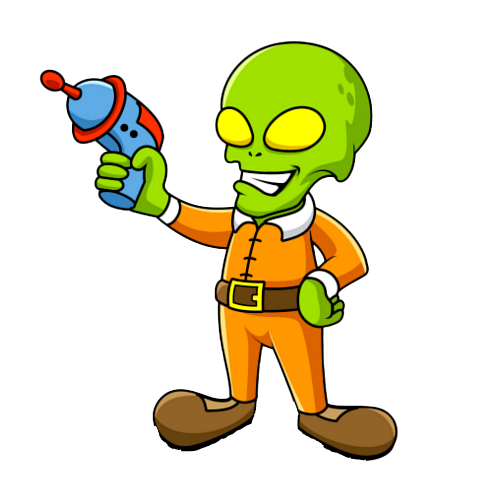
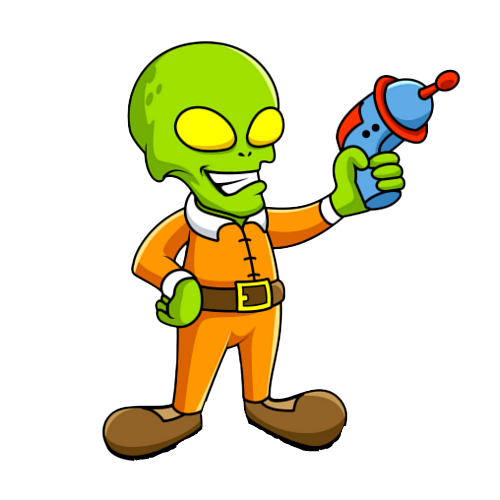
out of safety suggested by Andre, I commit the game one last time. Changed the background of the HTML file increased the font size of the score, title and time and from the instructions.This is my final commit.

diff --git a/index.html b/index.html
@@ -12,22 +12,24 @@
     <script src="https://cdn.jsdelivr.net/npm/p5@1.4.1/lib/p5.js"></script>
     <script src="https://cdn.jsdelivr.net/npm/p5/lib/addons/p5.sound.min.js"></script>
 
-    <title>Shoot A Mole Game</title>
+    <title>Whack a Diglett</title>
   </head>
   <body>
-    <section class="title">
-      <span id="score-span">Score:<span id="score"> 0</span></span>
-      <h1>Shoot a Mole</h1>
-      <span id="time-span">Time:<span id="span-timer">0</span></span>
-    </section>
+    <div class="background">
+      <section class="title">
+        <span id="score-span">Score:<span id="score"> 0</span></span>
+        <h1>Whack A Diglett</h1>
+        <span id="time-span">Time:<span id="span-timer">0</span></span>
+      </section>
 
-    <div id="canvas"></div>
-    <section class="instructions">
-      <h3>Instructions:</h3>
-      <p>Shooting = Spacebar</p>
-      <p>Move to right: hold <i class="fa-solid fa-arrow-right"></i> key</p>
-      <p>Move to left: hold <i class="fa-solid fa-arrow-left"></i>key</p>
-    </section>
+      <div id="canvas"></div>
+      <section class="instructions">
+        <h3>Instructions:</h3>
+        <p>Shooting = Spacebar</p>
+        <p>Move to right: hold <i class="fa-solid fa-arrow-right"></i> key</p>
+        <p>Move to left: hold <i class="fa-solid fa-arrow-left"></i>key</p>
+      </section>
+    </div>
 
     <!--Game scripts-->
     <script src="src/constants.js"></script>

diff --git a/src/game.js b/src/game.js
@@ -50,13 +50,13 @@ class Game {
     this.moleArray = [];
     this.bulletArray = [];
     this.score = 0;
+    this.highScore = 0;
   }
 
   //1. preload images etc
   preload() {
     this.gameBackground.preload();
     this.backgroundHole.preload();
-    // this.bulletImg = loadImage("assets/images/bullet.png");
     this.bulletImg = loadImage("assets/images/laser-bullet.png");
     this.moleImg = loadImage("assets/images/diglett_without_background.png");
     this.player.preload();
@@ -98,7 +98,6 @@ class Game {
     this.bulletArray.forEach((bullet) => {
       this.moleArray.forEach((mole) => {
         if (this.isColliding(bullet, mole)) {
-          // console.log("diglett is hit");
           this.score++;
           scoreOfPlayer.innerText = `${this.score} points`;
         }
@@ -109,7 +108,6 @@ class Game {
   // 5. button to shoot the bullet
   keyPressed() {
     if (keyCode === SPACE_BAR) {
-      // console.log("Im shooting");
       this.shootBullet();
     }
   }

diff --git a/src/main.js b/src/main.js
@@ -10,9 +10,9 @@ let bodyFont;
 let totalTime;
 let splashTime;
 let gameTime;
-let timeLimit = 20;
+let timeLimit = 12;
 
-// which function should be running now
+// which file should be running
 //? stage 0 = splashscreen / begin screen
 //? stage 1 = game
 let stage = 0; // splashscreen / begin screen
@@ -52,7 +52,7 @@ function draw() {
 
     // stop splash time to save amount of time we are on splash
     splashTime = splashTime;
-    gameTime = int((totalTime - splashTime) / 1000); // display game time in seconds by dividing the amount of millisecond through 1000
+    gameTime = int((totalTime - splashTime) / 1000); // display game time in seconds by dividing the amount of milliseconds through 1000
     timerOfGame.innerText = timeLimit - gameTime; // display countdown timer
     if (backgroundMusic.isPlaying() === false) {
       backgroundMusic.play();

diff --git a/css/styles.css b/css/styles.css
@@ -3,10 +3,20 @@
   src: url("assets/fonts/Atari_Classic.ttf") format("ttf");
 }
 
+.background {
+  /* background-color: aquamarine; */
+  background-image: url("../assets/images/forest_background.jpeg");
+  height: 100vh;
+  width: 100%;
+}
+
 .title {
   display: flex;
   justify-content: space-evenly;
   font-family: Atari_Classic;
+  position: relative;
+  top: 50px;
+  font-size: 20px;
 }
 
 .game {
@@ -17,14 +27,18 @@
 #canvas {
   display: flex;
   justify-content: center;
+  position: relative;
+  top: 50px;
 }
 
 .instructions {
   display: flex;
   justify-content: center;
   flex-direction: column;
-  font-size: 12px;
+  font-size: 15px;
   font-family: Atari_Classic;
+  color: black;
+  padding-left: 20px;
 }
 
 .fa-solid,

diff --git a/src/splashScreen.js b/src/splashScreen.js
@@ -28,12 +28,12 @@ class SplashScreen {
     text(" How to play", this.width / 2, 210);
     textSize(10);
     text(" Hold left or right arrow key to move", this.width / 2, 250);
-    text(" Press spacebar to fire bullets", this.width / 2, 288);
+    text(" Press spacebar to laser beams", this.width / 2, 288);
 
     text(" Hit as many digletts as you can", this.width / 2, 320);
-    text(" in 20 seconds", this.width / 2, 333);
+    text(" in 15 seconds", this.width / 2, 333);
 
-    text(" Click the screen to begin", this.width / 2, 380);
+    text(" Click on the screen to begin", this.width / 2, 380);
 
     pop();
   }

diff --git a/src/gameOver.js b/src/gameOver.js
@@ -1,7 +1,8 @@
 class GameOver {
-  constructor() {
+  constructor(scoreOfPlayer) {
     this.width = 250;
     this.height = 300;
+    this.highScore = scoreOfPlayer;
   }
   drawGameOverScreen() {
     background(0); // black background
@@ -15,6 +16,11 @@ class GameOver {
     text("Time is up", this.width / 2, 200);
     textSize(15);
     textFont(bodyFont);
-    text("Your time is up, refresh to play again", this.width / 2, 300, 400);
+    text(
+      "Your time is up, refresh the page to play again",
+      this.width / 2,
+      this.height,
+      400
+    );
   }
 }

diff --git a/src/player.js b/src/player.js
@@ -10,8 +10,7 @@ class Player {
 
   //1. image of player
   preload() {
-    // this.img = loadImage("assets/images/alien-player.png");
-    this.img = loadImage("assets/images/alien-player-2.png");
+    this.img = loadImage("assets/images/alien-player.png");
   }
 
   //2.draw player
